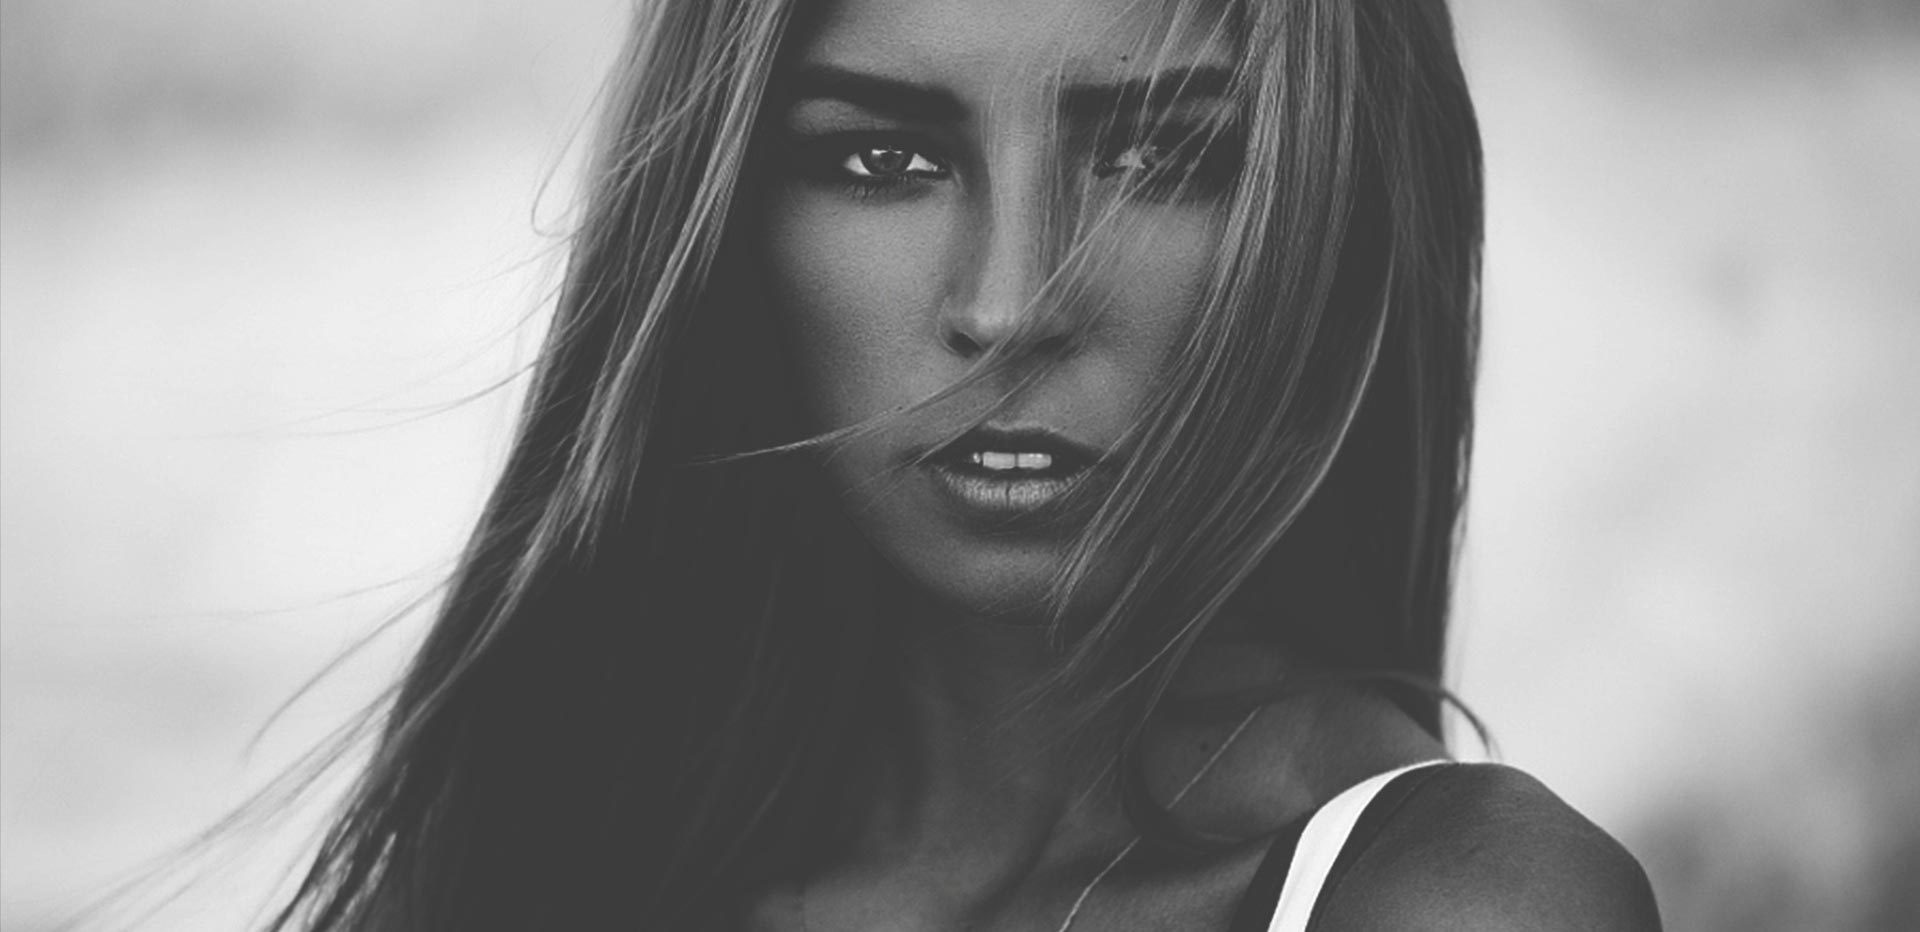
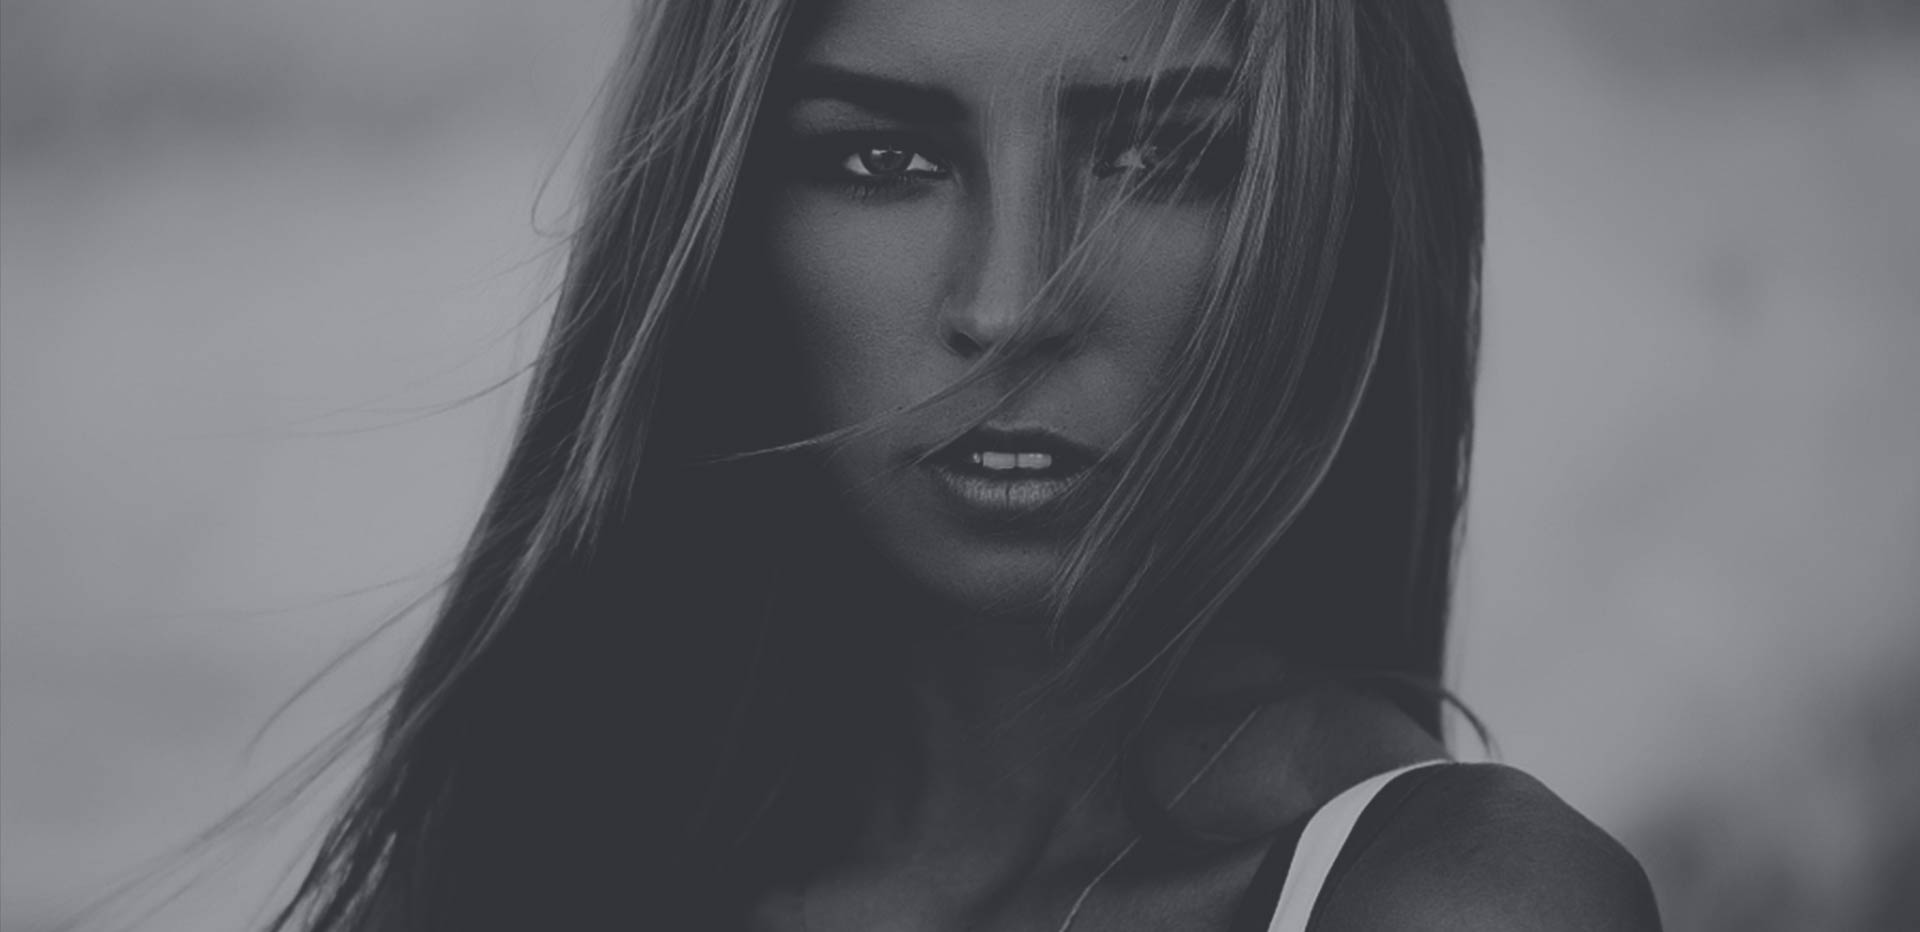
Верстка слайдера

diff --git a/src/index.html b/src/index.html
@@ -11,7 +11,7 @@
     <header class="page-header">
       <div class="page-header__container">
         <div class="page-header__logo">
-          <img src="img/logo.png" width="126" height="34" alt="BRANDly">
+          <a href="#"><img src="img/logo.png" width="126" height="34" alt="BRANDly"></a>
         </div>
         <nav class="main-nav">
           <ul class="main-nav__items">
@@ -28,19 +28,19 @@
     <main>
       <div class="slider">
         <div class="slider__slides">
-          <div class="slide">
+          <div class="slide  slide--woman  slide--active">
             <p class="slide__collection">Spring / Summer Collection</p>
             <p class="slide__discount">Up to 60% discount on new arrivals</p>
             <p class="slide__desc">Trending new items, from creators around the world</p>
             <div class="slide__btn-wrapper">
-              <a class="btn" href="#" >Shop Now</a>
+              <a class="btn  btn--slider" href="#" >Shop Now</a>
             </div>
           </div>
         </div>
         <div class="slider__pagination">
           <span class="slider__dot"></span>
           <span class="slider__dot"></span>
-          <span class="slider__dot"></span>
+          <span class="slider__dot  slider__dot--active"></span>
           <span class="slider__dot"></span>
         </div>
       </div>

diff --git a/src/sass/blocks/slide.scss b/src/sass/blocks/slide.scss
@@ -1,0 +1,51 @@
+.slide {
+  display: flex;
+  flex-direction: column;
+  justify-content: center;
+  color: $clr_white;
+  text-align: center;
+  margin: 0;
+  padding: 0;
+  height: 932px;
+  background-color: $clr_gray;
+
+  &--woman {
+    background-image: url('../img/bg-slide1.jpg');
+    background-repeat: no-repeat;
+    background-position: center;
+    background-size: cover;
+  }
+}
+
+.slide__collection {
+  font-size: 30px;
+  font-weight: 300;
+  line-height: 30px;
+  letter-spacing: 0.3em;
+  text-transform: uppercase;
+  margin: 0;
+  padding: 0px 0px 38px 0px;
+}
+
+.slide__discount {
+  font-family: $fnt_Lato;
+  font-size: 60px;
+  font-weight: 900;
+  line-height: 60px;
+  text-transform: uppercase;
+  margin: 0;
+  padding: 0px 0px 37px 0px;
+}
+
+.slide__desc {
+  font-size: 30px;
+  font-weight: 300;
+  line-height: 36px;
+  text-transform: uppercase;
+  margin: 0;
+  padding: 0px 0px 48px 0px;
+}
+
+.slide__btn-wrapper {
+
+}

diff --git a/src/sass/blocks/slider.scss b/src/sass/blocks/slider.scss
@@ -1,0 +1,43 @@
+.slider {
+  position: relative;
+  min-height: 932px;
+  background-color: $clr_gray;
+}
+
+.slider__slides {
+
+}
+
+.slider__pagination {
+  position: absolute;
+  bottom: 58px;
+  left: 0px;
+  width: 100%;
+  font-size: 0px;
+  text-align: center;
+}
+
+.nojs .slider__pagination {
+  display: none;
+}
+
+.slider__dot {
+  display: inline-block;
+  vertical-align: middle;
+  margin: 0px 5px 0px 5px;
+  padding: 0;
+  border: 2px solid $clr_white;
+  border-radius: 50%;
+  width: 8px;
+  height: 8px;
+  background-color: $clr_white;
+  cursor: pointer;
+
+  &--active {
+    margin-right: 3px;
+    margin-left: 3px;
+    width: 12px;
+    height: 12px;
+    background-color: transparent;
+  }
+}

diff --git a/src/sass/blocks/btn.scss b/src/sass/blocks/btn.scss
@@ -1,0 +1,28 @@
+.btn {
+  display: inline-block;
+  vertical-align: top;
+  text-align: center;
+  text-decoration: none;
+  text-transform: uppercase;
+  margin: 0;
+  padding: 0;
+  transition: color 0.5s ease, background-color 0.5s ease;
+
+  &--slider {
+    color: $clr_white;
+    font-family: $fnt_Lato;
+    font-size: 18px;
+    font-weight: 900;
+    line-height: 19px;
+    padding: 19px 47px 18px 47px;
+    border: 2px solid $clr_white;
+    border-radius: 5px;
+    background-color: transparent;
+  }
+
+  &--slider:hover,
+  &--slider:focus {
+    color: $clr_black;
+    background-color: $clr_white;
+  }
+}

diff --git a/src/sass/style.scss b/src/sass/style.scss
@@ -2,5 +2,9 @@
 @import "global/fonts.scss";
 @import "global/common.scss";
 
+@import "blocks/btn.scss";
+
 @import "blocks/page-header.scss";
 @import "blocks/main-nav.scss";
+@import "blocks/slider.scss";
+@import "blocks/slide.scss";

diff --git a/src/sass/blocks/page-header.scss b/src/sass/blocks/page-header.scss
@@ -4,7 +4,7 @@
   left: 0px;
   width: 100%;
   z-index: 1;
-  background-color: rgba(0, 0, 0, 0.3); //
+  background-color: rgba(0, 0, 0, 0.3);
 }
 
 .page-header__container {
